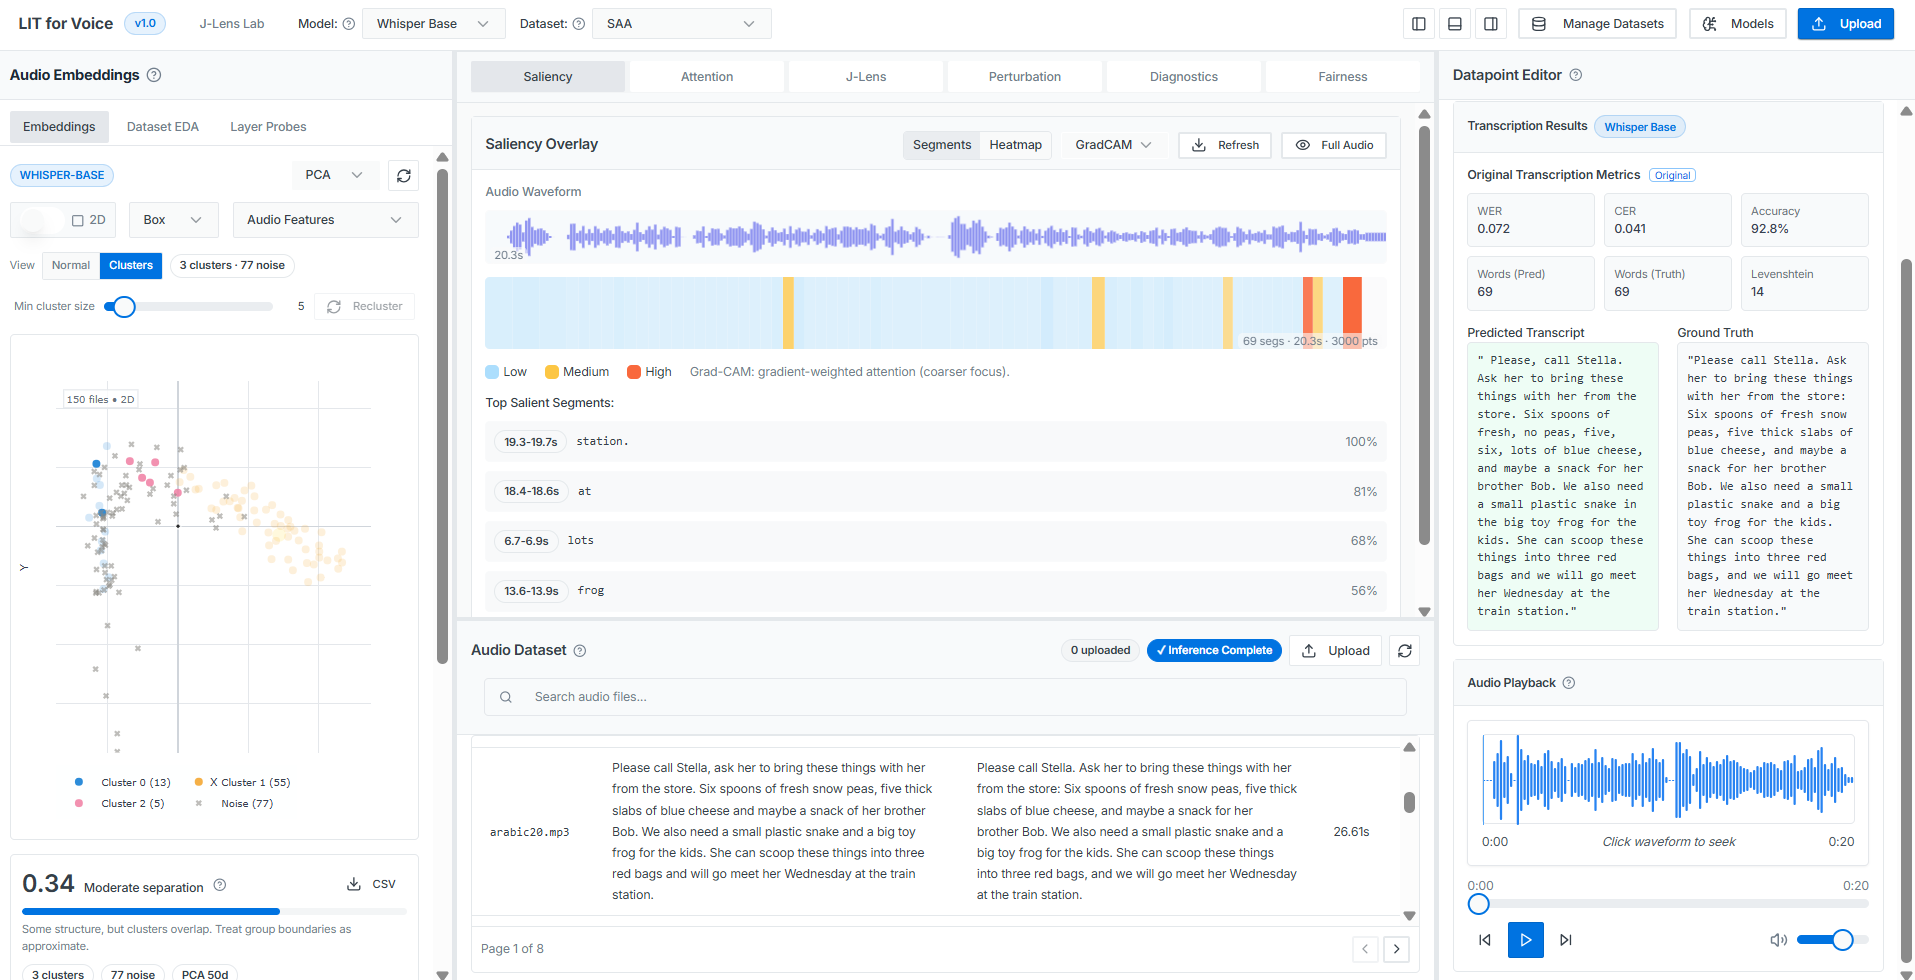
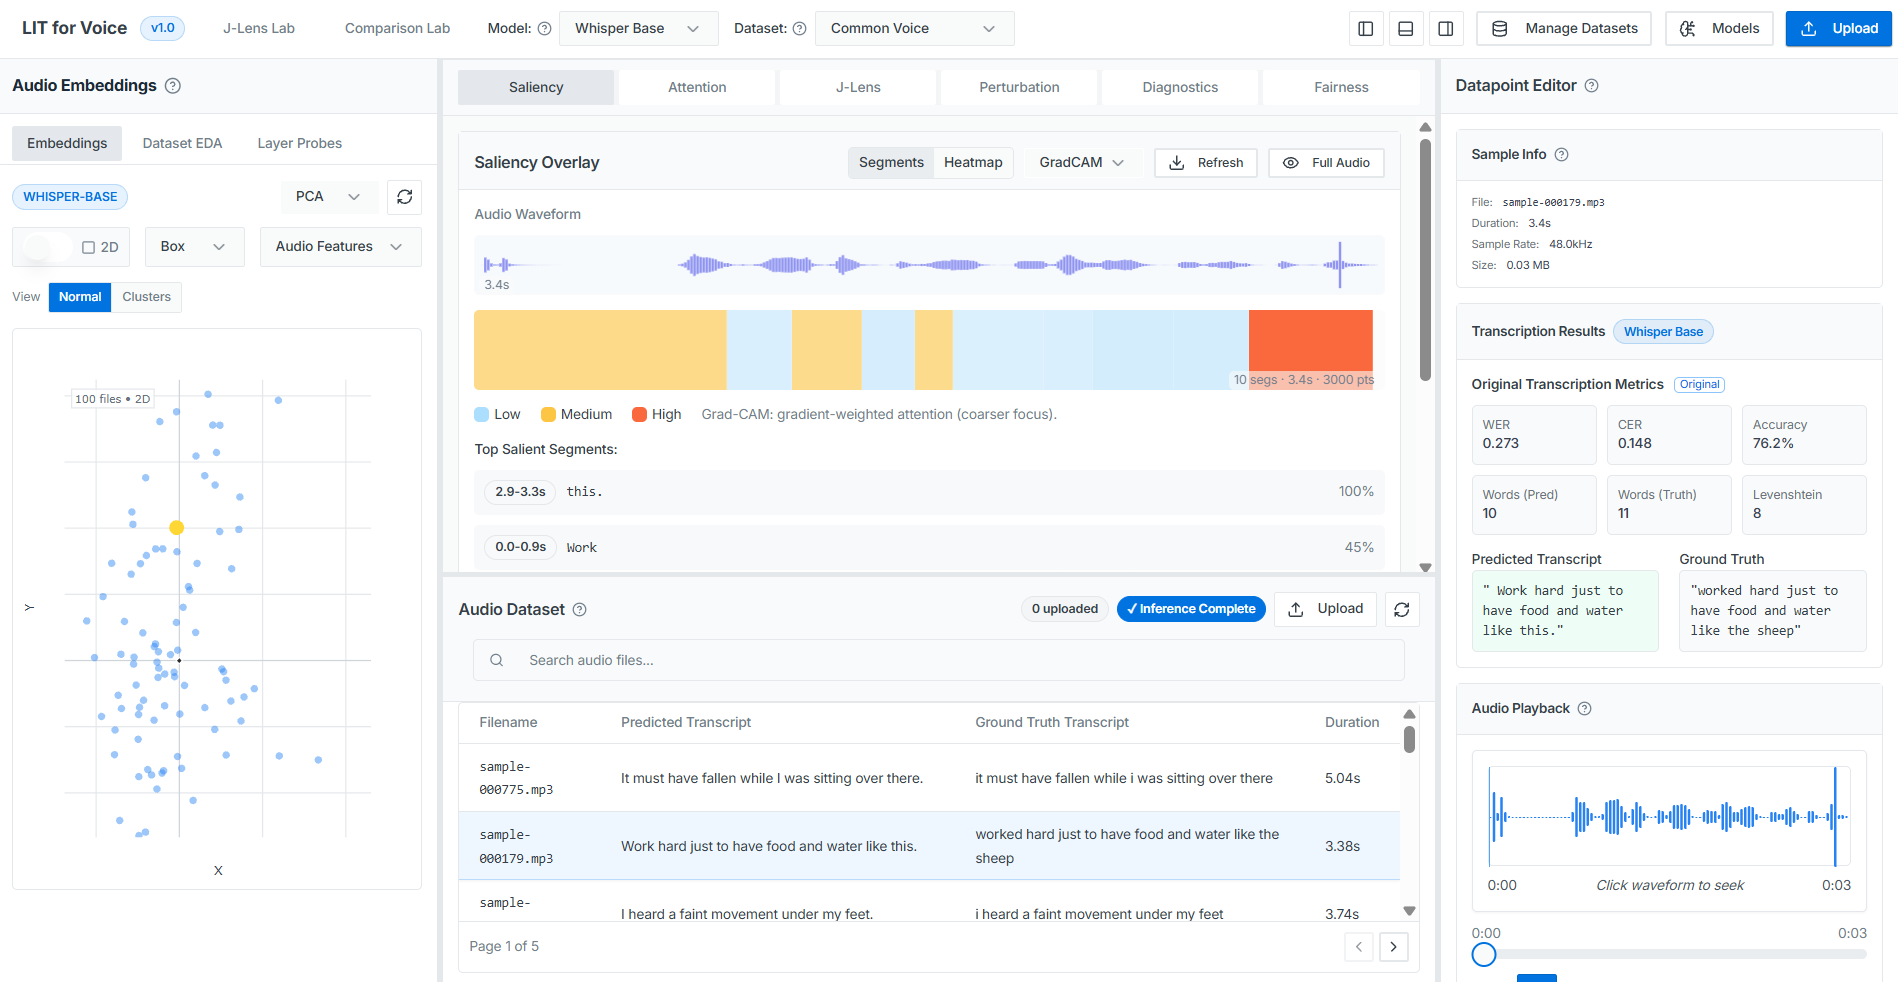
docs(attention): wire attention-matrix image into docs

diff --git a/app/docs/docs-index.generated.ts b/app/docs/docs-index.generated.ts
@@ -1091,7 +1091,7 @@ export const SECTION_RECORDS: Record<string, SearchRecord[]> = {
       "headingId": "views",
       "kind": "content",
       "title": "Views",
-      "body": "Image placeholder: attention matrix view Add /assets/docs/attention-matrix.png — the attention panel with the layer/head selectors and the matrix view rendered for a sample clip. Replace this callout with ![Attention matrix view](/assets/docs/attention-matrix.png) once the real image is uploaded."
+      "body": "Attention matrix view"
     },
     {
       "key": "heading:attention:gpu-note-attention_force_cpu:17",
